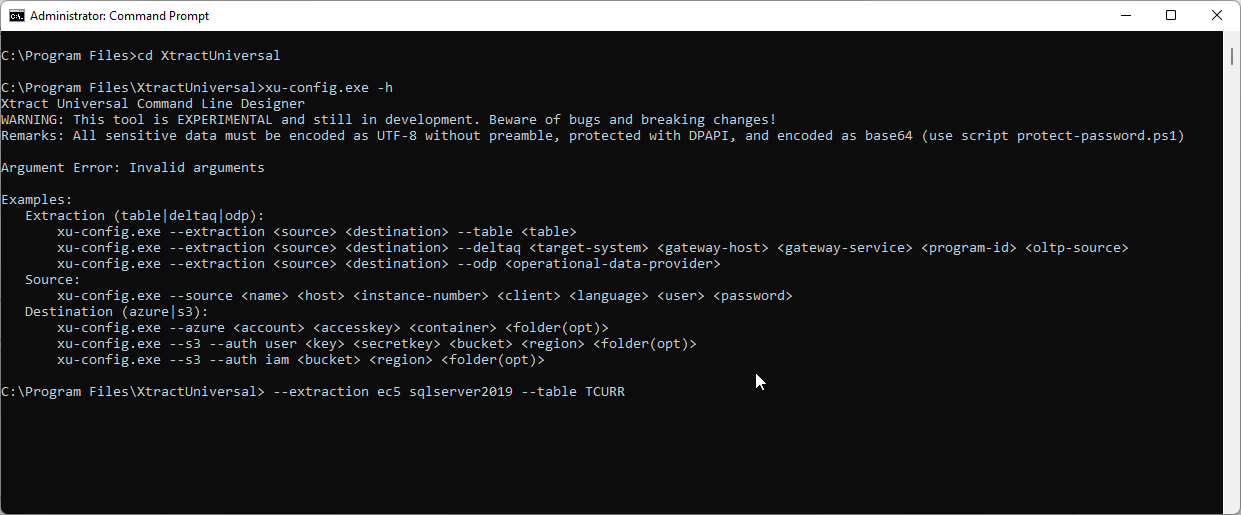
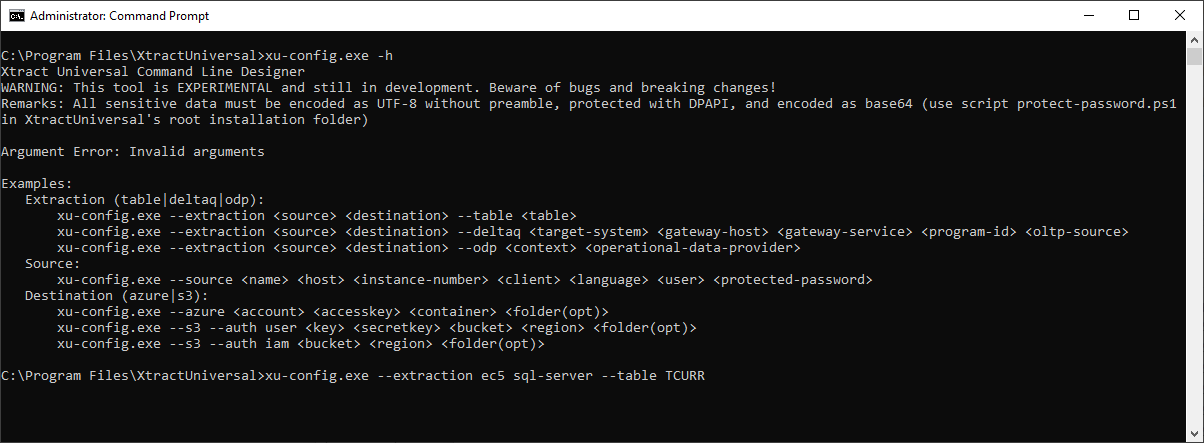
new screenshot + new structure

diff --git a/content/_xtract-universal/using-config-command-line-tool.md b/content/_xtract-universal/using-config-command-line-tool.md
@@ -5,15 +5,25 @@ description: Creating extractions without using the Xtract Universal designer GU
 permalink: /:collection/:path
 weight: 16
 ---
-As of Xtract Universal Version 4.26.1, the command line tool *xu-config.exe* is available to customers for creating extractions outside of the Xtract Universal Designer: `C:\Program Files\XtractUniversal\xu-config.exe`.
+As of Xtract Universal Version 4.26.1, the command line tool *xu-config.exe* is available to customers for creating Table, ODP and DeltaQ extractions outside of the Xtract Universal Designer: `C:\Program Files\XtractUniversal\xu-config.exe`.
 
 {: .box-note }
 **Note:** This tool is **EXPERIMENTAL** and still in development. Beware of bugs and breaking changes! It's currently limited to the extraction types [Table](https://help.theobald-software.com/en/xtract-universal/table) [ODP](https://help.theobald-software.com/en/xtract-universal/odp) and [DeltaQ](https://help.theobald-software.com/en/xtract-universal/datasource-deltaq).
 
 {: .box-note }
-**Note:** Since Xtract Universal 5.0.0, xu-config.exe needs to be executed under the same Windows AD account as the [Xtract Universal service](https://help.theobald-software.com/en/xtract-universal/advanced-techniques/service-account) is running. In this case, you need to run the Windows command prompt as that respective user or use the ```runas```command.
+**Note:** As of Xtract Universal 5.0.0, xu-config.exe must be executed under the same Windows AD account as the [Xtract Universal service](https://help.theobald-software.com/en/xtract-universal/advanced-techniques/service-account) is running. In this case, you need to run the Windows command prompt as that respective user or use the ```runas```command.
 
-### Creating a single Table extraction using Windows Command Prompt
+
+### Creating SAP Sources
+
+The xu-config.exe only supports SAP Connections using plain authentication.
+
+
+### Creating Destinations
+
+The xu-config.exe only supports Azure and Amazon S3 destinations
+
+### Creating a single Table Extraction using Windows Command Prompt
 1. Start the Command Prompt application (1) with admin-user rights (2). 
 ![cmd-prompt](/img/contents/cmd_prompt.png){:class="img-responsive"}
 2. Navigate and select the *xu-config.exe* command line tool. 
@@ -27,6 +37,9 @@ As of Xtract Universal Version 4.26.1, the command line tool *xu-config.exe* is 
 
 {: .box-note }
 **Note:** The following table settings are set by default after creation: **Package Size (50000)**, **Extract data in background job (enabled)**, **Selecting all related fields**.
+
+{: .box-tip }
+**Tip:** Use the command `xu-config.exe -h` to find more examples on how to create Xtract Universal components.
 
 ### Creating multiple Table extractions using PowerShell-Script
 Using suitable scripts, a large number of extractions can be generated almost automatically and consequently contribute for the generation of an SAP data warehouse.
@@ -65,8 +78,9 @@ foreach ($tableName in $tableList) {
 }
 ```
 
+
 *****
-#### Related links
+#### Related Links
  - [SAP Connection](https://help.theobald-software.com/en/xtract-universal/introduction/sap-connection#creating-an-sap-connection)
  - [Destination](https://help.theobald-software.com/en/xtract-universal/xu-destinations/managing-destinations)
  - [SAP table object](https://help.theobald-software.com/en/xtract-universal/getting-started/define-a-table-extraction#adding-tables)
@@ -75,9 +89,3 @@ foreach ($tableName in $tableList) {
  - [Scheduling an extraction](https://help.theobald-software.com/en/xtract-universal/advanced-techniques/scheduling_extraction)
  - [Extraction Parameters](https://help.theobald-software.com/en/xtract-universal/advanced-techniques/extraction-parameters)
  
- 
- 
-
-
-
-
